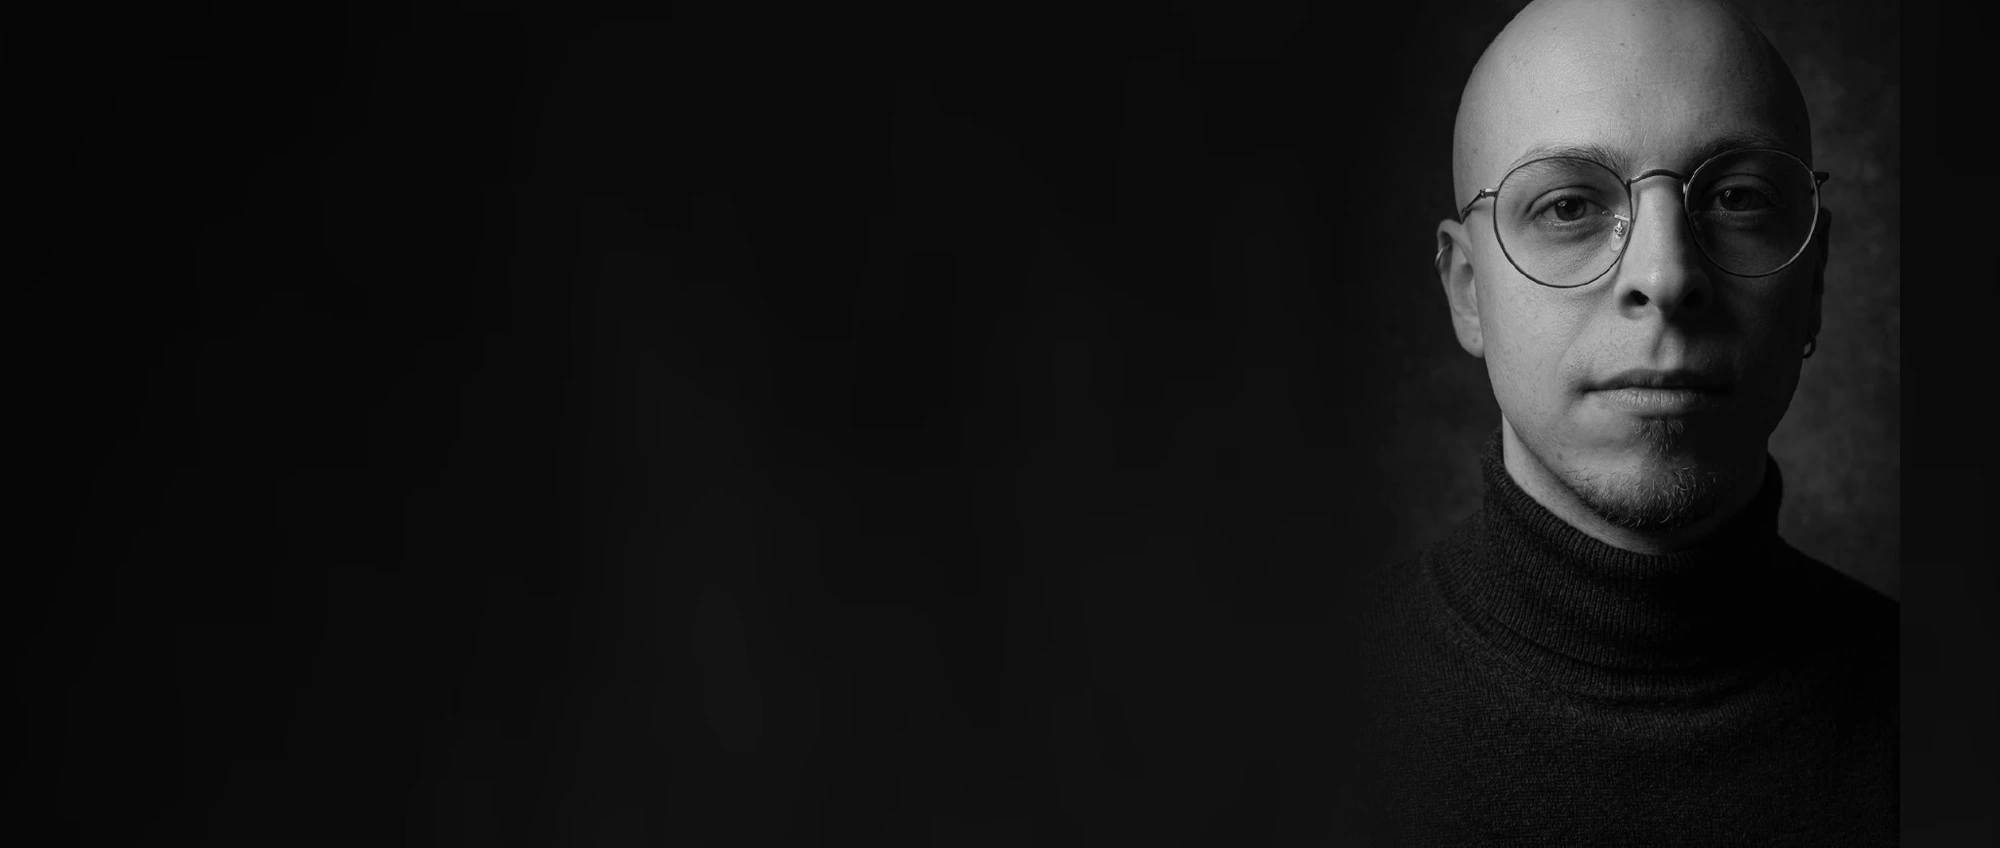
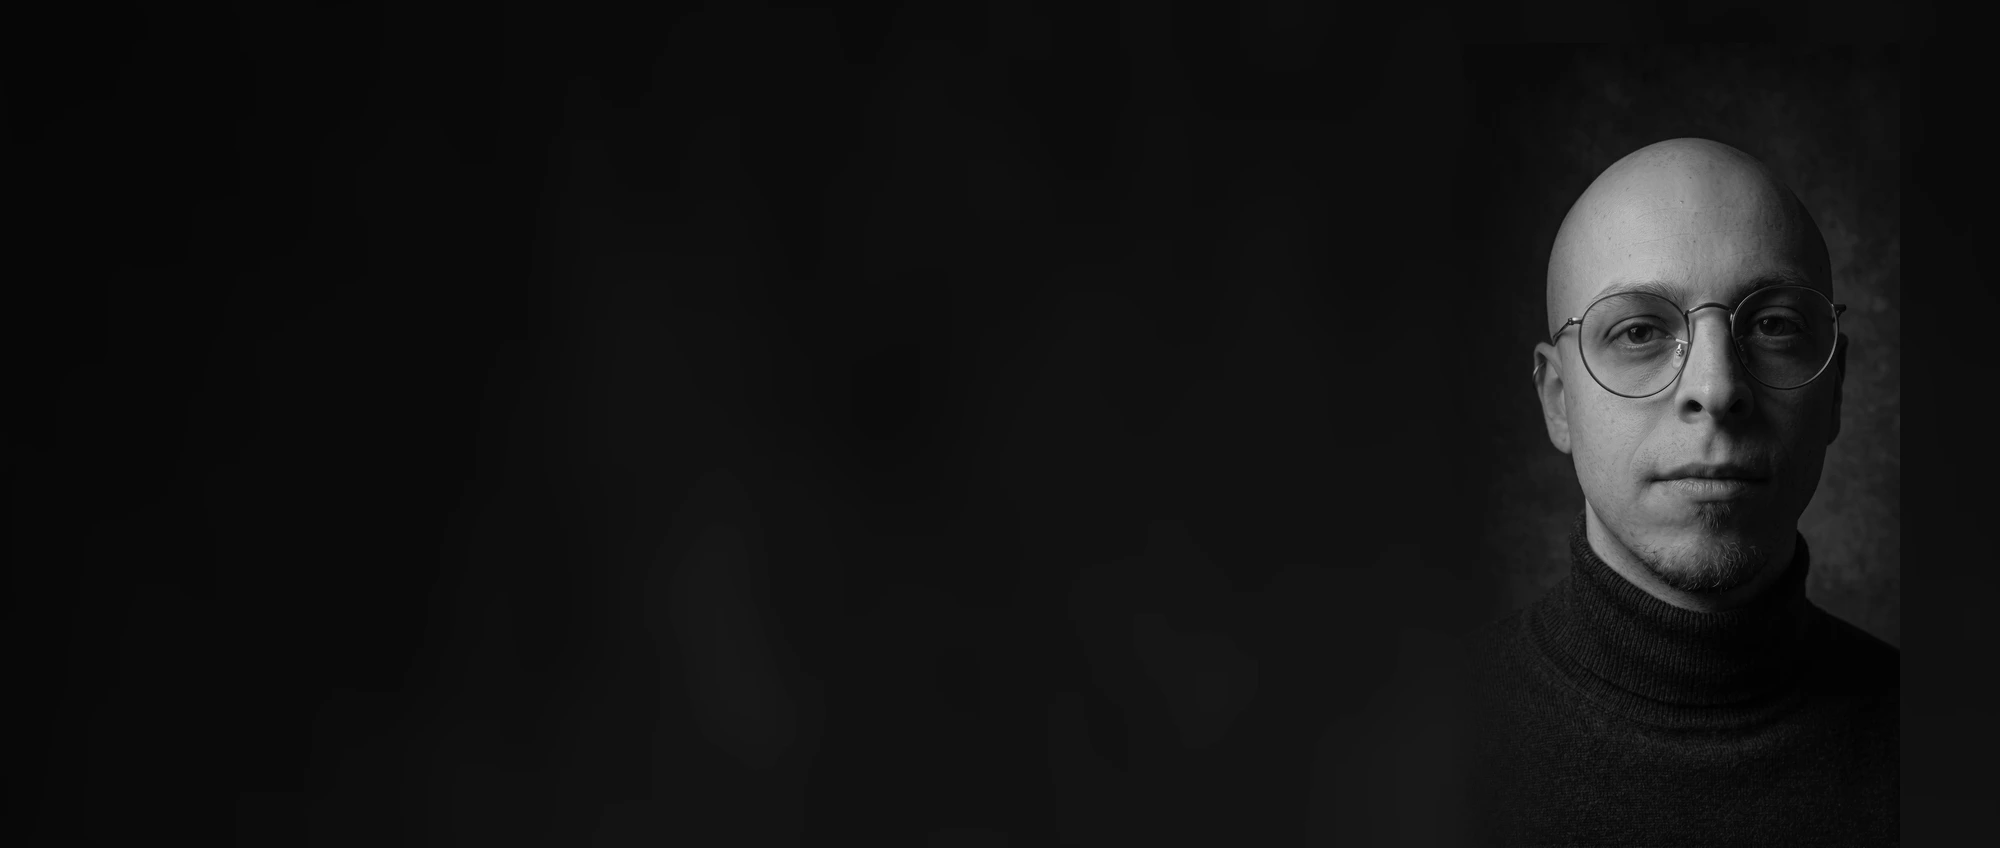
Sostituisce il ritratto hero con la versione in alta risoluzione, in scala di grigi
Usa la nuova foto ad alta risoluzione (1116x2000) con la stessa
tecnica di composizione (sfondo esteso dalla texture della foto
stessa, soggetto allineato a destra sul desktop e centrato su
mobile). Corregge anche un difetto introdotto dalla versione
precedente: il soggetto riempiva più dell'altezza del canvas
(subject_height_frac 1.18), cosi la testa veniva tagliata netta
al bordo superiore, creando un alone sfocato sotto la topbar a
certe larghezze di viewport. Ora il soggetto sta per intero nel
canvas con margine sopra la testa (frac 0.95).

Claude-Session: https://claude.ai/code/session_01TsQHtMqWTWqH38J3yoYhH8

Changed region(s): [[0.713, 0.0, 0.93, 0.7665], [0.899, 0.6132, 0.961, 0.7358]]

diff --git a/tests/site-regression.test.js b/tests/site-regression.test.js
@@ -47,8 +47,8 @@ assert(html.includes('data-i18n="skip_to_content"'), 'Skip link must be translat
 assert(!html.includes('data-lang="fr"'), 'French selector must be removed');
 assert(html.includes('class="desktop-nav"'), 'Section navigation must be present');
 assert(html.includes('class="hero-filmstrip"'), 'Hero filmstrip must link to the real sections');
-assert(html.includes('srcset="photo.webp?v=15"'), 'New portrait must be displayed');
-assert(html.includes('srcset="photo-mobile.webp?v=15"'), 'Mobile portrait crop must be displayed');
+assert(html.includes('srcset="photo.webp?v=16"'), 'New portrait must be displayed');
+assert(html.includes('srcset="photo-mobile.webp?v=16"'), 'Mobile portrait crop must be displayed');
 assert(!html.includes('id="c1Details"'), 'RAG detail reader must be removed');
 assert(!html.includes('rag_step1_title'), 'RAG diagram must be removed');
 assert(!html.includes('id="c2Details"'), 'Local AI detail reader must be removed');

diff --git a/index.html b/index.html
@@ -112,9 +112,9 @@
     </div>
     <div class="hero-photo-frame">
       <picture>
-        <source media="(max-width:700px)" srcset="photo-mobile.webp?v=15" type="image/webp">
-        <source srcset="photo.webp?v=15" type="image/webp">
-        <img class="hero-portrait" id="avatarPhoto" src="photo.webp?v=15" alt="Nicolò Forcolin" width="2000" height="848" fetchpriority="high">
+        <source media="(max-width:700px)" srcset="photo-mobile.webp?v=16" type="image/webp">
+        <source srcset="photo.webp?v=16" type="image/webp">
+        <img class="hero-portrait" id="avatarPhoto" src="photo.webp?v=16" alt="Nicolò Forcolin" width="2000" height="848" fetchpriority="high">
       </picture>
       <div class="hero-timeline" aria-hidden="true">
         <span class="hero-timeline-tick"></span>
